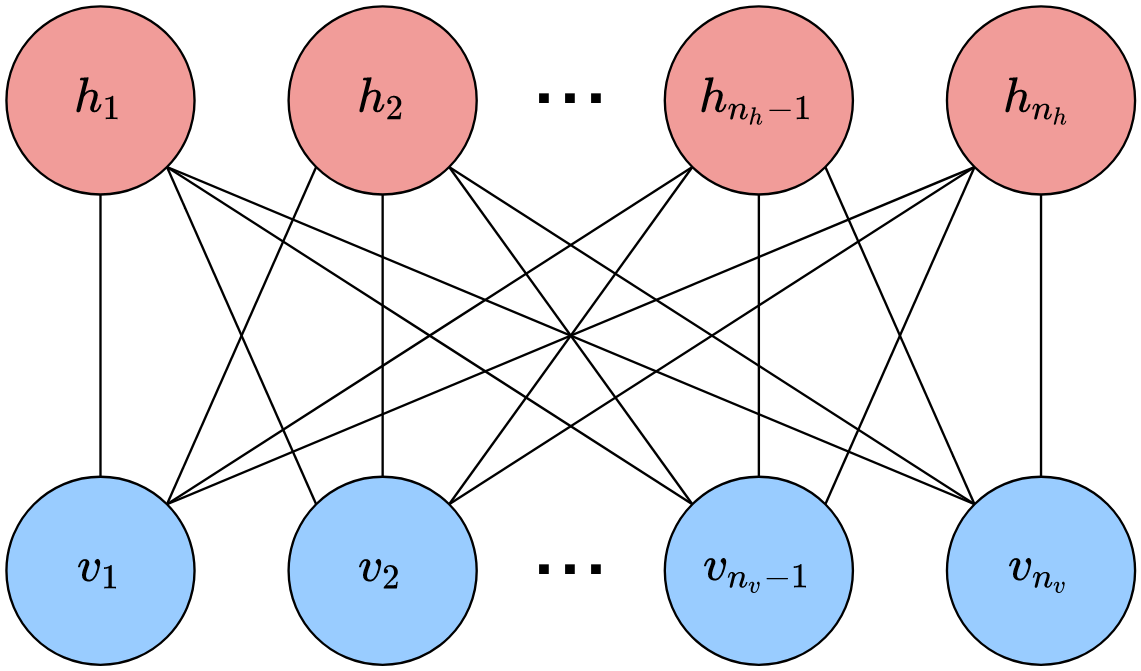
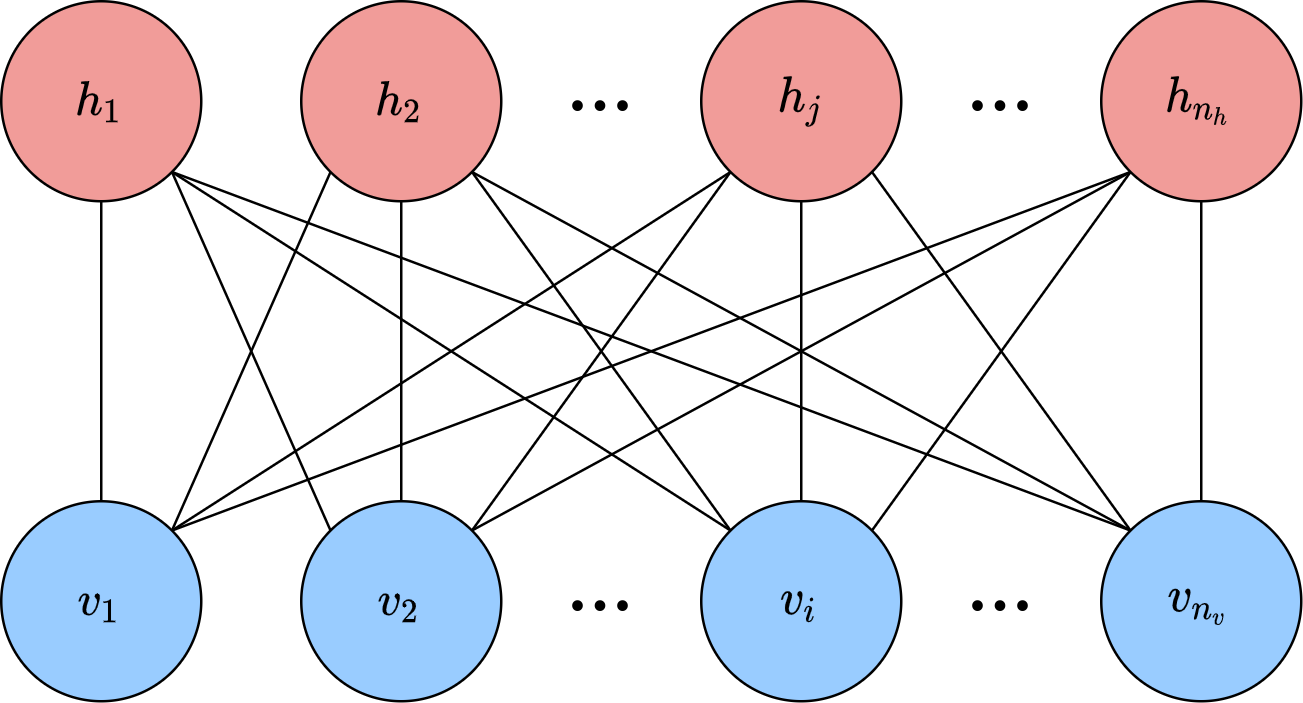
Added rbm diagrams to report

diff --git a/latex/report/chapters/rbm.tex b/latex/report/chapters/rbm.tex
@@ -5,6 +5,22 @@
 
 \todo{Derivation of log likelihood gradient (appendix)}
 
+\begin{figure}
+    \begin{center}
+        \includegraphics[width=1\linewidth]{rbm_diagram.png}
+    \end{center}
+    \caption{The structure of a restricted Boltzmann machine with \( n_v \) visible units and \( n_h \) hidden units.}
+    \label{fig:rbm_diagram}
+\end{figure}
+
+\begin{figure}
+    \begin{center}
+        \includegraphics[width=1\linewidth]{gibbs_sampling_diagram.png}
+    \end{center}
+    \caption{Illustration of the Gibbs sampling procedure.}
+    \label{fig:gibbs_sampling_diagram}
+\end{figure}
+
 \section{Application}
 
 \section{Results}
